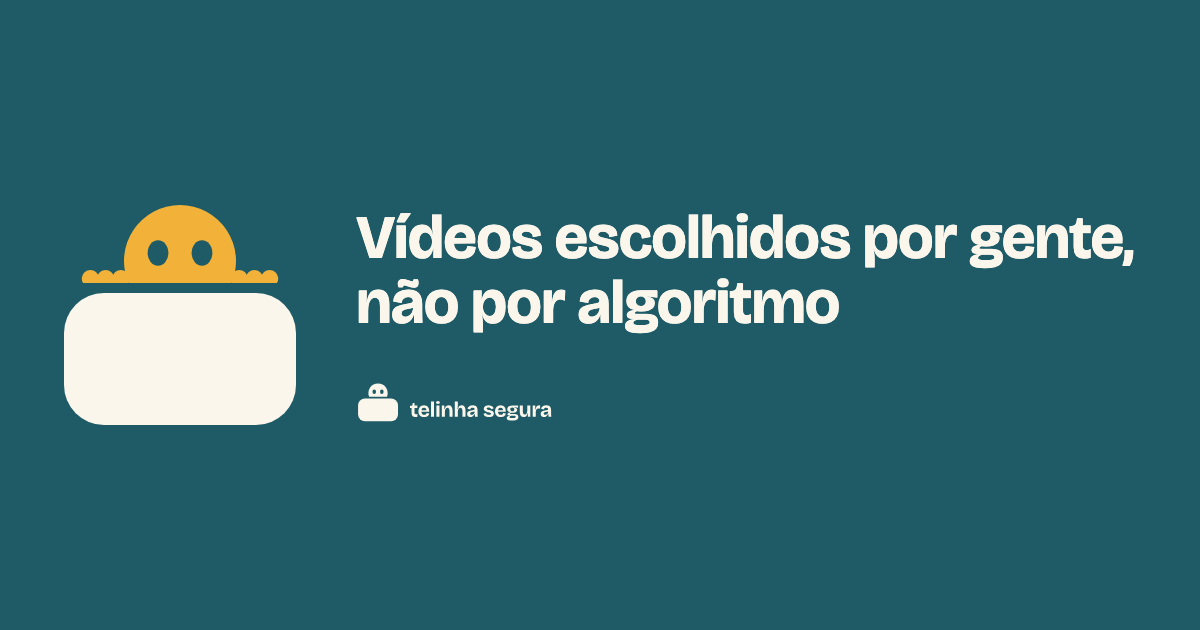
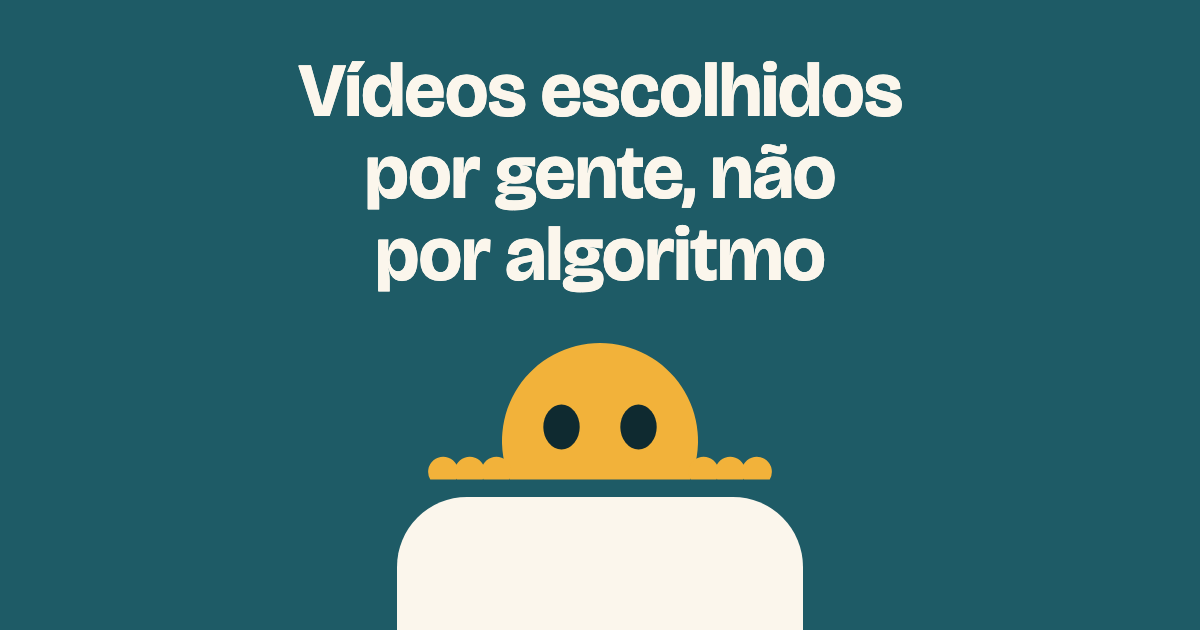
feat(site): a bolder link preview that survives square crops

Changed region(s): [[0.2775, 0.2111, 0.9558, 1.0], [0.0308, 0.3016, 0.2467, 0.6937], [0.2467, 0.0905, 0.7708, 0.181]]

diff --git a/site/og/card.html b/site/og/card.html
@@ -34,34 +34,23 @@
     }
 
     .card {
-      box-sizing: border-box;
+      position: relative;
       width: 1200px;
       height: 630px;
-      padding: 60px;
-      display: flex;
-      align-items: center;
-      gap: 56px;
-    }
-
-    .mark {
-      flex: none;
-      width: 240px;
-      height: auto;
-    }
-
-    .words {
-      flex: 1;
-      display: flex;
-      flex-direction: column;
-      gap: 44px;
+      overflow: hidden;
     }
 
     h1 {
+      position: absolute;
+      top: 50px;
+      left: 60px;
+      right: 60px;
       margin: 0;
+      text-align: center;
       font-family: "Bricolage Grotesque", sans-serif;
       font-weight: 700;
-      font-size: 61px;
-      line-height: 1.06;
+      font-size: 76px;
+      line-height: 1.08;
       letter-spacing: -0.015em;
       color: var(--cream);
     }
@@ -71,28 +60,28 @@
       white-space: nowrap;
     }
 
-    .lockup {
-      display: block;
-      align-self: flex-start;
-      height: 44px;
-      width: auto;
+    /* The telinha runs off the bottom edge: only the head, the fingers
+       and the top of the screen show, so the mark peeks into the card. */
+    .mark {
+      position: absolute;
+      left: 390px;
+      top: 336px;
+      width: 420px;
+      height: auto;
     }
   </style>
 </head>
 <body>
   <div class="card">
+    <h1><span>Vídeos escolhidos</span><span>por gente, não</span><span>por algoritmo</span></h1>
     <!-- The Espiadinha: the head and fingers peek over an empty telinha. -->
     <svg class="mark" viewBox="2 4 60 57" aria-hidden="true">
       <path fill="#FBF6EC" d="M13 27H51A10 10 0 0 1 61 37V50A10 10 0 0 1 51 60H13A10 10 0 0 1 3 50V37A10 10 0 0 1 13 27Z"/>
       <path fill="#F2B23A" d="M19.126 24.5A14 14 0 1 1 44.874 24.5Z"/>
       <path fill="#F2B23A" d="M7.753 24.5A2.15 2.15 0 1 1 11.447 24.5ZM11.553 24.5A2.15 2.15 0 1 1 15.247 24.5ZM15.353 24.5A2.15 2.15 0 1 1 19.047 24.5ZM44.953 24.5A2.15 2.15 0 1 1 48.647 24.5ZM48.753 24.5A2.15 2.15 0 1 1 52.447 24.5ZM52.553 24.5A2.15 2.15 0 1 1 56.247 24.5Z"/>
-      <ellipse fill="#1E5B66" cx="26.5" cy="17" rx="2.6" ry="3.2"/>
-      <ellipse fill="#1E5B66" cx="37.5" cy="17" rx="2.6" ry="3.2"/>
+      <ellipse fill="#0F2A30" cx="26.5" cy="17" rx="2.6" ry="3.2"/>
+      <ellipse fill="#0F2A30" cx="37.5" cy="17" rx="2.6" ry="3.2"/>
     </svg>
-    <div class="words">
-      <h1><span>Vídeos escolhidos por gente,</span><span>não por algoritmo</span></h1>
-      <img class="lockup" src="../public/brand/telinha-segura-lockup-reversed.svg" alt="Telinha Segura">
-    </div>
   </div>
 </body>
 </html>

diff --git a/site/public/curadoria.html b/site/public/curadoria.html
@@ -15,7 +15,7 @@
   <meta property="og:image" content="https://telinhasegura.coding4u.tech/og/telinha-segura.png">
   <meta property="og:image:width" content="1200">
   <meta property="og:image:height" content="630">
-  <meta property="og:image:alt" content="Espiadinha, o mascote do Telinha Segura, ao lado da frase: vídeos escolhidos por gente, não por algoritmo.">
+  <meta property="og:image:alt" content="A frase “vídeos escolhidos por gente, não por algoritmo” acima da Espiadinha, o mascote do Telinha Segura, que espia por cima de uma telinha.">
   <meta name="twitter:card" content="summary_large_image">
   <meta name="theme-color" content="#1E5B66">
   <link rel="icon" href="/favicon.ico" sizes="48x48">

diff --git a/site/public/excluir-conta.html b/site/public/excluir-conta.html
@@ -15,7 +15,7 @@
   <meta property="og:image" content="https://telinhasegura.coding4u.tech/og/telinha-segura.png">
   <meta property="og:image:width" content="1200">
   <meta property="og:image:height" content="630">
-  <meta property="og:image:alt" content="Espiadinha, o mascote do Telinha Segura, ao lado da frase: vídeos escolhidos por gente, não por algoritmo.">
+  <meta property="og:image:alt" content="A frase “vídeos escolhidos por gente, não por algoritmo” acima da Espiadinha, o mascote do Telinha Segura, que espia por cima de uma telinha.">
   <meta name="twitter:card" content="summary_large_image">
   <meta name="theme-color" content="#1E5B66">
   <link rel="icon" href="/favicon.ico" sizes="48x48">

diff --git a/site/public/index.html b/site/public/index.html
@@ -15,7 +15,7 @@
   <meta property="og:image" content="https://telinhasegura.coding4u.tech/og/telinha-segura.png">
   <meta property="og:image:width" content="1200">
   <meta property="og:image:height" content="630">
-  <meta property="og:image:alt" content="Espiadinha, o mascote do Telinha Segura, ao lado da frase: vídeos escolhidos por gente, não por algoritmo.">
+  <meta property="og:image:alt" content="A frase “vídeos escolhidos por gente, não por algoritmo” acima da Espiadinha, o mascote do Telinha Segura, que espia por cima de uma telinha.">
   <meta name="twitter:card" content="summary_large_image">
   <meta name="theme-color" content="#1E5B66">
   <link rel="icon" href="/favicon.ico" sizes="48x48">

diff --git a/site/public/participe.html b/site/public/participe.html
@@ -15,7 +15,7 @@
   <meta property="og:image" content="https://telinhasegura.coding4u.tech/og/telinha-segura.png">
   <meta property="og:image:width" content="1200">
   <meta property="og:image:height" content="630">
-  <meta property="og:image:alt" content="Espiadinha, o mascote do Telinha Segura, ao lado da frase: vídeos escolhidos por gente, não por algoritmo.">
+  <meta property="og:image:alt" content="A frase “vídeos escolhidos por gente, não por algoritmo” acima da Espiadinha, o mascote do Telinha Segura, que espia por cima de uma telinha.">
   <meta name="twitter:card" content="summary_large_image">
   <meta name="theme-color" content="#1E5B66">
   <link rel="icon" href="/favicon.ico" sizes="48x48">

diff --git a/site/public/privacidade.html b/site/public/privacidade.html
@@ -15,7 +15,7 @@
   <meta property="og:image" content="https://telinhasegura.coding4u.tech/og/telinha-segura.png">
   <meta property="og:image:width" content="1200">
   <meta property="og:image:height" content="630">
-  <meta property="og:image:alt" content="Espiadinha, o mascote do Telinha Segura, ao lado da frase: vídeos escolhidos por gente, não por algoritmo.">
+  <meta property="og:image:alt" content="A frase “vídeos escolhidos por gente, não por algoritmo” acima da Espiadinha, o mascote do Telinha Segura, que espia por cima de uma telinha.">
   <meta name="twitter:card" content="summary_large_image">
   <meta name="theme-color" content="#1E5B66">
   <link rel="icon" href="/favicon.ico" sizes="48x48">

diff --git a/site/public/suporte.html b/site/public/suporte.html
@@ -15,7 +15,7 @@
   <meta property="og:image" content="https://telinhasegura.coding4u.tech/og/telinha-segura.png">
   <meta property="og:image:width" content="1200">
   <meta property="og:image:height" content="630">
-  <meta property="og:image:alt" content="Espiadinha, o mascote do Telinha Segura, ao lado da frase: vídeos escolhidos por gente, não por algoritmo.">
+  <meta property="og:image:alt" content="A frase “vídeos escolhidos por gente, não por algoritmo” acima da Espiadinha, o mascote do Telinha Segura, que espia por cima de uma telinha.">
   <meta name="twitter:card" content="summary_large_image">
   <meta name="theme-color" content="#1E5B66">
   <link rel="icon" href="/favicon.ico" sizes="48x48">

diff --git a/site/public/termos.html b/site/public/termos.html
@@ -15,7 +15,7 @@
   <meta property="og:image" content="https://telinhasegura.coding4u.tech/og/telinha-segura.png">
   <meta property="og:image:width" content="1200">
   <meta property="og:image:height" content="630">
-  <meta property="og:image:alt" content="Espiadinha, o mascote do Telinha Segura, ao lado da frase: vídeos escolhidos por gente, não por algoritmo.">
+  <meta property="og:image:alt" content="A frase “vídeos escolhidos por gente, não por algoritmo” acima da Espiadinha, o mascote do Telinha Segura, que espia por cima de uma telinha.">
   <meta name="twitter:card" content="summary_large_image">
   <meta name="theme-color" content="#1E5B66">
   <link rel="icon" href="/favicon.ico" sizes="48x48">
